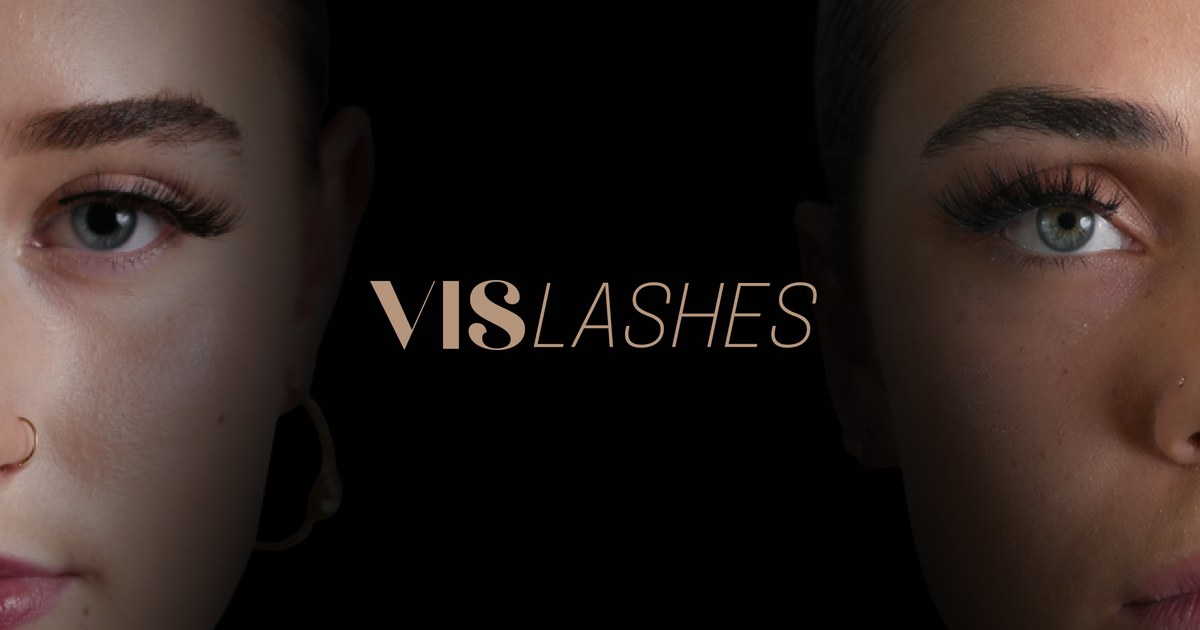
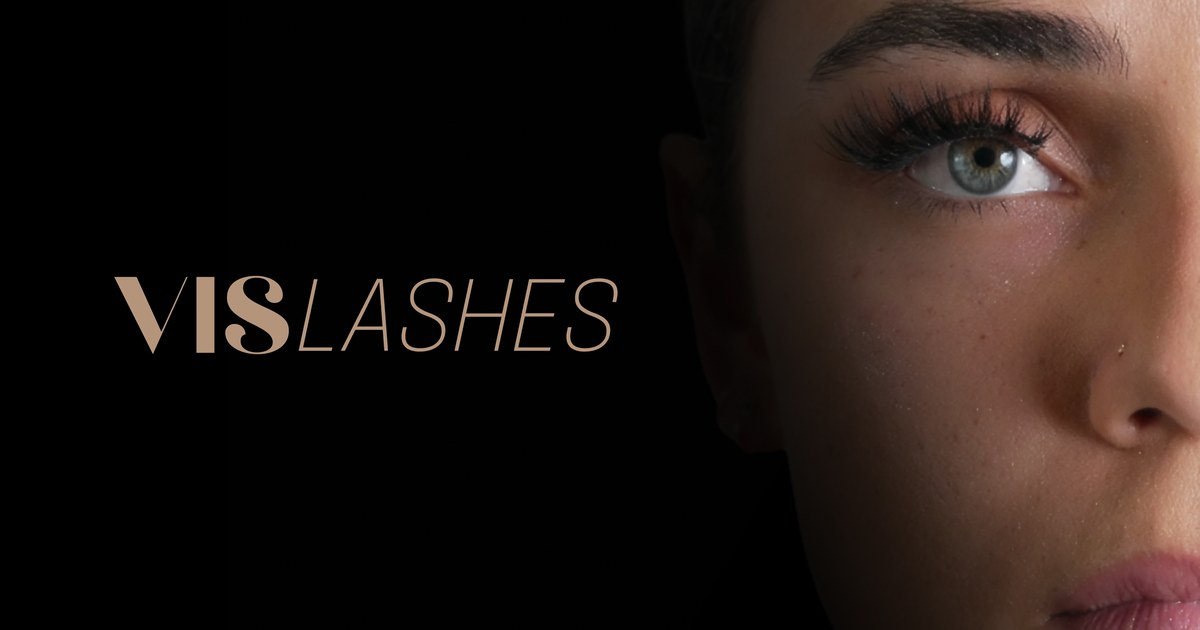
v1.70.1 - swap the link preview to the single-portrait glyph
Requested by name: Figma node 859:232, the frame with one head portrait
and the wordmark left-of-center on black, over 859:251 (two portraits,
centered wordmark) shipped in v1.70.0.

Flagged once before swapping: at the 1:1 crop some messengers use for
link previews, this wordmark's left edge sits close enough to the frame
edge that a tight square crop could clip the "V". Confirmed by rendering
that exact crop. Proceeding on the explicit choice.

Same pipeline as before: exported at 2x (2880x2160), center-cropped to
1200x630 trimming 324px off top and bottom, JPEG q88 at 47KB. Alt text
rewritten to describe this image rather than the last one.

Verified: served at http://localhost:4310/opengraph-image.jpg resolves
1200x630 JPEG, 48337 bytes, new content hash confirms the fingerprinted
filename changed rather than serving a stale cached copy.

npx tsc --noEmit clean; npm run lint 9 errors / 2 warnings, under the
9/4 baseline; npm run build compiles.

Claude-Session: https://claude.ai/code/session_01N7UPovRf6JKP2SHkNMfEz7

diff --git a/lib/release-notes.ts b/lib/release-notes.ts
@@ -31,6 +31,16 @@ export interface ReleaseNote {
 
 export const RELEASE_NOTES: ReleaseNote[] = [
   {
+    version: "1.70.1",
+    date: "2026-09-20",
+    changes: [
+      {
+        kind: "changed",
+        text: "Swapped the link preview image for the single-portrait design.",
+      },
+    ],
+  },
+  {
     version: "1.70.0",
     date: "2026-09-19",
     changes: [
